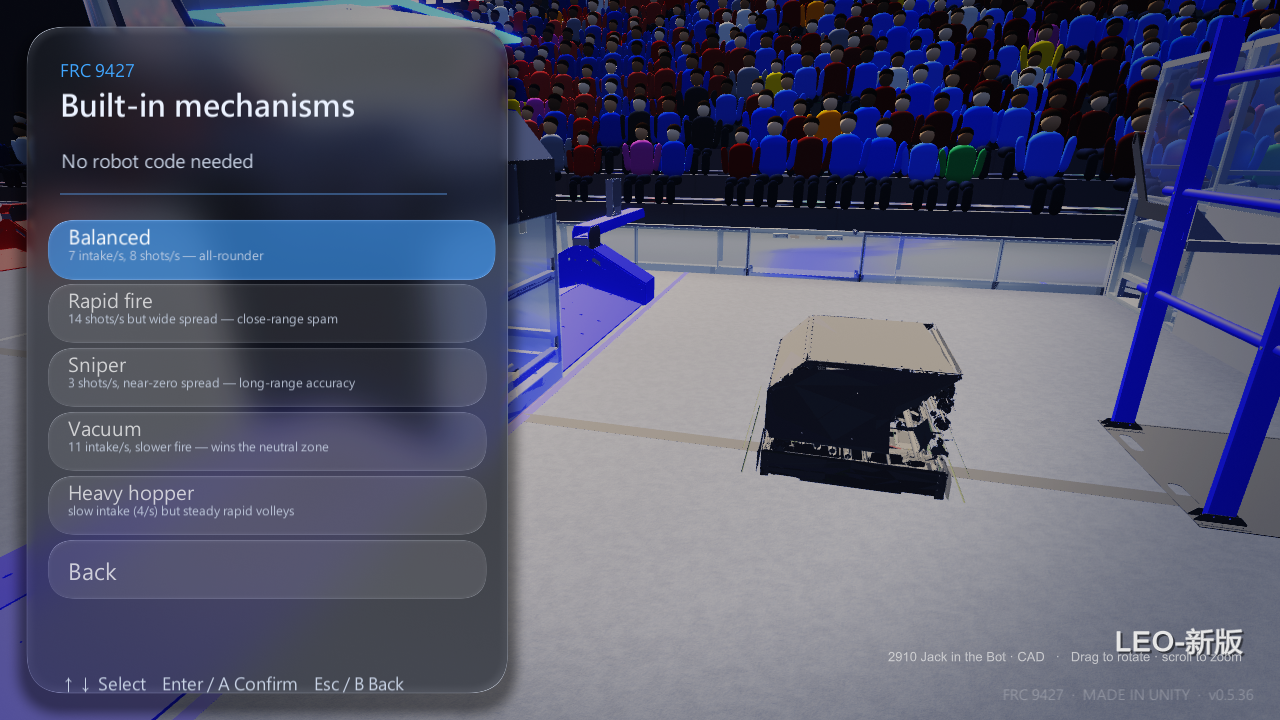
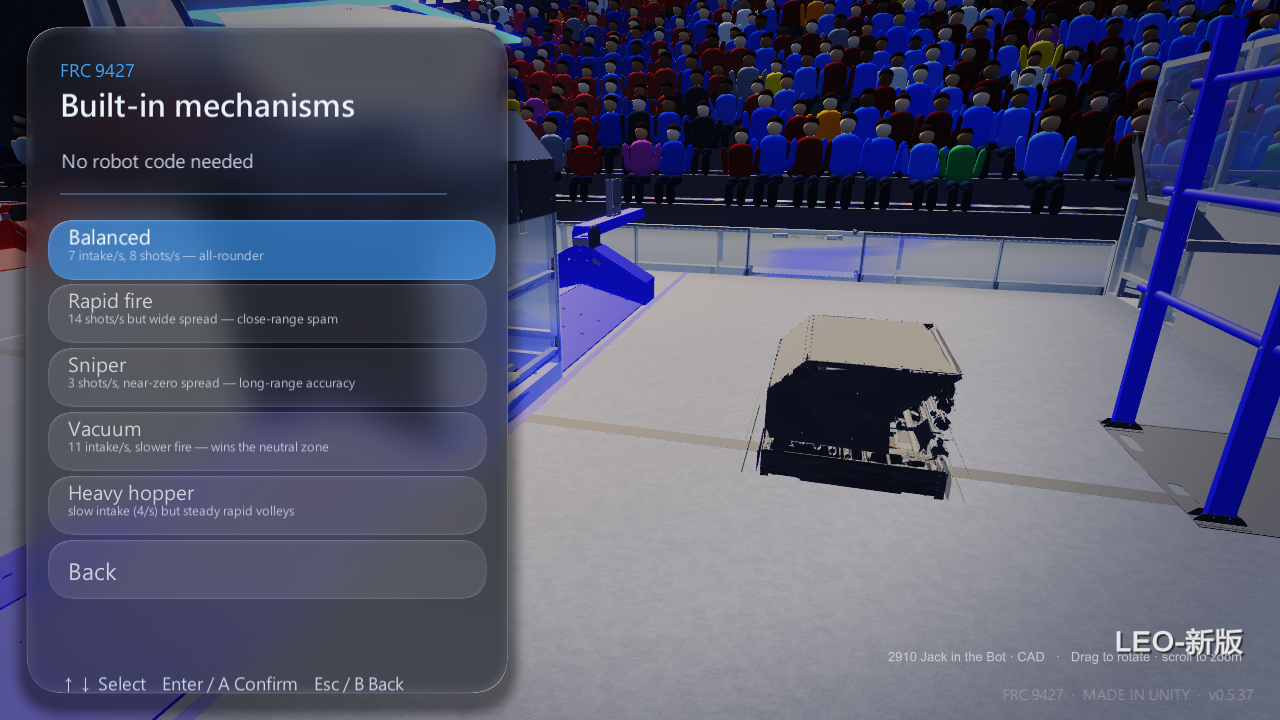
v0.5.37 controls layout

Changed region(s): [[0.4062, 0.4889, 0.4375, 0.55], [0.6562, 0.3667, 0.6875, 0.3972]]

diff --git a/Assets/Scripts/UI/MenuSystem.cs b/Assets/Scripts/UI/MenuSystem.cs
@@ -508,12 +508,12 @@ namespace FrcSim
                 UiKit.PlaceTL(kbT.rectTransform, 90, 300, 600, 32);
                 var kb = UiKit.Label("Kb", content, Loc.T("ctl.kb.body"), 19, UiTheme.Text, TextAnchor.UpperLeft);
                 kb.lineSpacing = 1.1f;
-                UiKit.PlaceTL(kb.rectTransform, 90, 334, 650, 270);
+                UiKit.PlaceTL(kb.rectTransform, 90, 334, 650, 320);
                 var pdT = UiKit.Label("PadT", content, Loc.T("ctl.pad"), 24, UiTheme.Accent, TextAnchor.UpperLeft);
-                UiKit.PlaceTL(pdT.rectTransform, 90, 612, 600, 32);
+                UiKit.PlaceTL(pdT.rectTransform, 90, 668, 600, 32);
                 var pd = UiKit.Label("Pad", content, Loc.T("ctl.pad.body"), 19, UiTheme.Text, TextAnchor.UpperLeft);
                 pd.lineSpacing = 1.1f;
-                UiKit.PlaceTL(pd.rectTransform, 90, 646, 650, 290);
+                UiKit.PlaceTL(pd.rectTransform, 90, 702, 650, 230);
                 // 語言切換時更新內文
                 lastControls = () =>
                 {
@@ -676,6 +676,8 @@ namespace FrcSim
         }
     }
 }
+
+
 
 
 

diff --git a/Assets/Scripts/Sim/UpdateCheck.cs b/Assets/Scripts/Sim/UpdateCheck.cs
@@ -17,7 +17,7 @@ namespace FrcSim
     //   找不到差異包(或失敗)時退回「開啟下載頁」,讓使用者手動下載完整版。
     public class UpdateCheck : MonoBehaviour
     {
-        public const string Current = "0.5.36";
+        public const string Current = "0.5.37";
         const string Repo = "frc9427liu-tech/FRC9427-SimApp";
         const string ReleasesApi = "https://api.github.com/repos/" + Repo + "/releases?per_page=30";
         public const string Page = "https://github.com/" + Repo + "/releases/latest";
@@ -235,6 +235,7 @@ Start-Process -FilePath $Exe -WorkingDirectory $Dst
 ";
     }
 }
+
 
 
 
